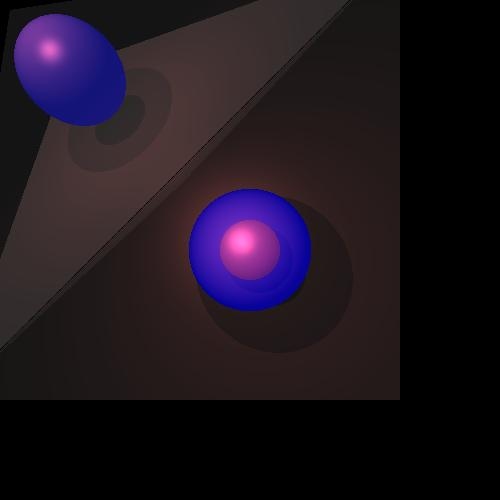
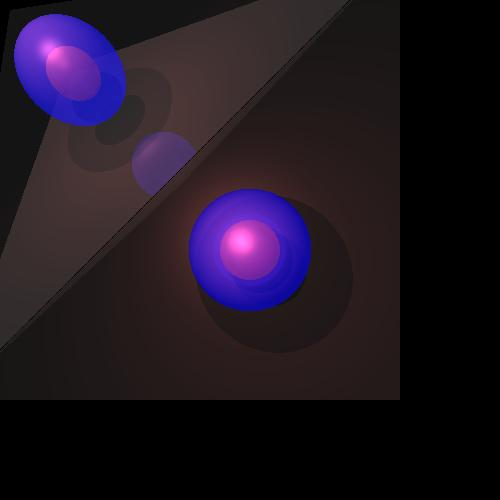
final fixes
changed the level so now works
yay

diff --git a/geometries/Sphere.java b/geometries/Sphere.java
@@ -74,7 +74,7 @@ public class Sphere extends RadialGeometry {
 		double t1 = tm - th;
 		double t2 = tm + th;
 		Coordinate x = new Coordinate(t1);
-		Coordinate y = new Coordinate(t2);
+		Coordinate y = new Coordinate(t2);	
 		if (x.get() > 0) {
 			Point3D p1 = p0.add(v.scale(t1));
 			pointsIntersections.add(p1);

diff --git a/renderer/Render.java b/renderer/Render.java
@@ -98,7 +98,7 @@ public class Render {
 	}
 
 	private Color calcColor(GeoPoint geopoint, Ray inRay) {
-		return calcColor(geopoint, inRay, 2, 1.0);
+		return calcColor(geopoint, inRay, 100, 1.0);
 	}
 
 	/**
